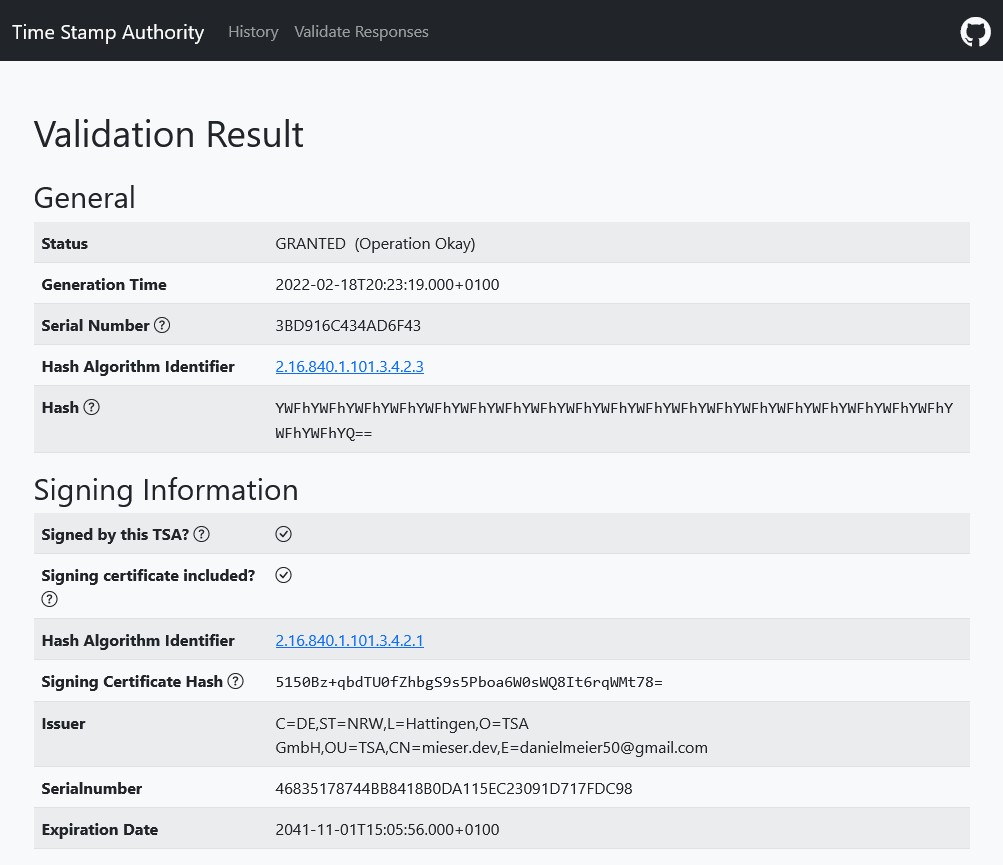
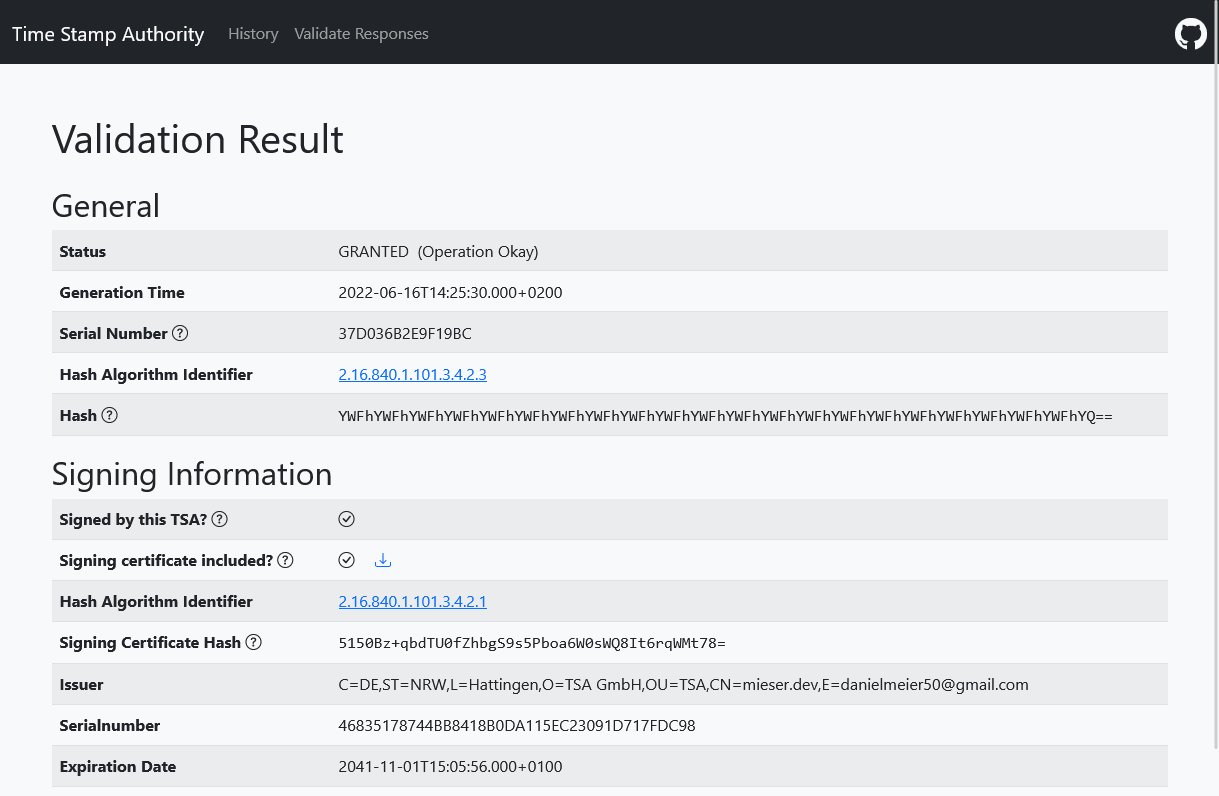
Add download link for signing certificate
To further analyze the signing certificate it can be useful to
be able to download the raw .crt file.

diff --git a/web/src/main/resources/templates/validation-result.html b/web/src/main/resources/templates/validation-result.html
@@ -86,12 +86,19 @@
 
             <tr>
                 <th scope="row" class="w-25">
-                    <span th:text="#{validate.result.signing-cert-included}">Signed by this TSA?</span>
+                    <span th:text="#{validate.result.signing-cert-included}">Signing cert included</span>
                     <i class="bi bi-question-circle" data-bs-toggle="tooltip" data-bs-placement="right"
                        th:title="#{validate.result.signing-cert-included.description}"></i>
                 </th>
                 <td>
-                    <i class="bi" th:classappend="${validationResult.signingCertificateInformation}? 'bi-check-circle' : 'bi-x-circle'"></i>
+                    <i class="bi"
+                       th:classappend="${validationResult.signingCertificateInformation}? 'bi-check-circle' : 'bi-x-circle'"></i>
+                    <a th:href="'data:application/pkix-cert;base64,' + ${validationResult.signingCertificateInformation.base64EncodedCertificate}"
+                       target="_blank" download="signing-cert.crt" class="px-3"
+                       th:title="#{validate.result.download-cert}"
+                       th:if="${validationResult.signingCertificateInformation}">
+                        <i class="bi bi-download"></i>
+                    </a>
                 </td>
             </tr>
 

diff --git a/signing/src/test/java/dev/mieser/tsa/signing/mapper/TimeStampValidationResultMapperTest.java b/signing/src/test/java/dev/mieser/tsa/signing/mapper/TimeStampValidationResultMapperTest.java
@@ -17,6 +17,7 @@ import java.security.cert.X509Certificate;
 import java.time.ZonedDateTime;
 import java.util.Date;
 
+import org.apache.commons.codec.binary.Base64;
 import org.bouncycastle.asn1.x509.AlgorithmIdentifier;
 import org.bouncycastle.cert.X509CertificateHolder;
 import org.bouncycastle.tsp.TimeStampResponse;
@@ -127,7 +128,7 @@ class TimeStampValidationResultMapperTest {
     }
 
     @Test
-    void mapsSigningCertificateIdentifier() throws Exception {
+    void mapsSigningCertificateIdentifier() {
         // given
         byte[] signingCertificateHash = "hash".getBytes(UTF_8);
         SigningCertificateHolder signingCertificateHolder = new SigningCertificateHolder(new AlgorithmIdentifier(id_SHA1),
@@ -179,10 +180,13 @@ class TimeStampValidationResultMapperTest {
         TimeStampValidationResult mappedValidationResult = testSubject.map(timeStampResponse, signingCertificateHolder, true);
 
         // then
+        String expectedBase64EncodedCertificate = Base64.encodeBase64String(certificate.getEncoded());
+
         SigningCertificateInformation expectedCertificateInformation = SigningCertificateInformation.builder()
             .expirationDate(mappedExpirationDate)
             .serialNumber(certificate.getSerialNumber())
             .issuer(certificateHolder.getIssuer().toString())
+            .base64EncodedCertificate(expectedBase64EncodedCertificate)
             .build();
 
         assertThat(mappedValidationResult.getSigningCertificateInformation()).isEqualTo(expectedCertificateInformation);

diff --git a/signing/src/main/java/dev/mieser/tsa/signing/mapper/TimeStampValidationResultMapper.java b/signing/src/main/java/dev/mieser/tsa/signing/mapper/TimeStampValidationResultMapper.java
@@ -1,5 +1,9 @@
 package dev.mieser.tsa.signing.mapper;
 
+import static org.apache.commons.codec.binary.Base64.encodeBase64String;
+
+import java.io.IOException;
+
 import lombok.RequiredArgsConstructor;
 
 import org.bouncycastle.cert.X509CertificateHolder;
@@ -67,7 +71,16 @@ public class TimeStampValidationResultMapper extends AbstractTspMapper {
             .serialNumber(signingCertificate.getSerialNumber())
             .expirationDate(dateConverter.toZonedDateTime(signingCertificate.getNotAfter()))
             .issuer(signingCertificate.getIssuer().toString())
+            .base64EncodedCertificate(encodeAsBase64String(signingCertificate))
             .build();
+    }
+
+    private String encodeAsBase64String(X509CertificateHolder signingCertificate) {
+        try {
+            return encodeBase64String(signingCertificate.getEncoded());
+        } catch (IOException e) {
+            throw new IllegalStateException("Failed to retrieve encoded signing certificate.", e);
+        }
     }
 
 }

diff --git a/domain/src/main/java/dev/mieser/tsa/domain/SigningCertificateInformation.java b/domain/src/main/java/dev/mieser/tsa/domain/SigningCertificateInformation.java
@@ -28,4 +28,9 @@ public class SigningCertificateInformation {
      */
     private final ZonedDateTime expirationDate;
 
+    /**
+     * The Base64 encoding of the ASN.1 DER X.509 encoded certificate which was used to sign the request.
+     */
+    private final String base64EncodedCertificate;
+
 }

diff --git a/web/src/main/java/module-info.java b/web/src/main/java/module-info.java
@@ -23,6 +23,8 @@ module tsa.web {
 
     requires org.apache.commons.codec;
 
+    requires org.apache.commons.io;
+
     requires org.apache.commons.lang3;
 
     requires com.fasterxml.jackson.databind;

diff --git a/signing/src/main/java/module-info.java b/signing/src/main/java/module-info.java
@@ -13,6 +13,8 @@ module tsa.signing {
 
     requires org.bouncycastle.provider;
 
+    requires org.apache.commons.codec;
+
     requires org.apache.commons.io;
 
     requires org.apache.commons.lang3;

diff --git a/README.md b/README.md
@@ -33,6 +33,8 @@ signed and who signed it:
 
 ![Validation Page](https://raw.githubusercontent.com/dnl50/tsa-server/develop/docs/images/validation-page.png "Validation Page")
 
+You can also download the signing certificate in case it is included in the response.
+
 ## Configuration
 
 All Parameters mentioned below can be configured in variety of ways. Please refer to the
